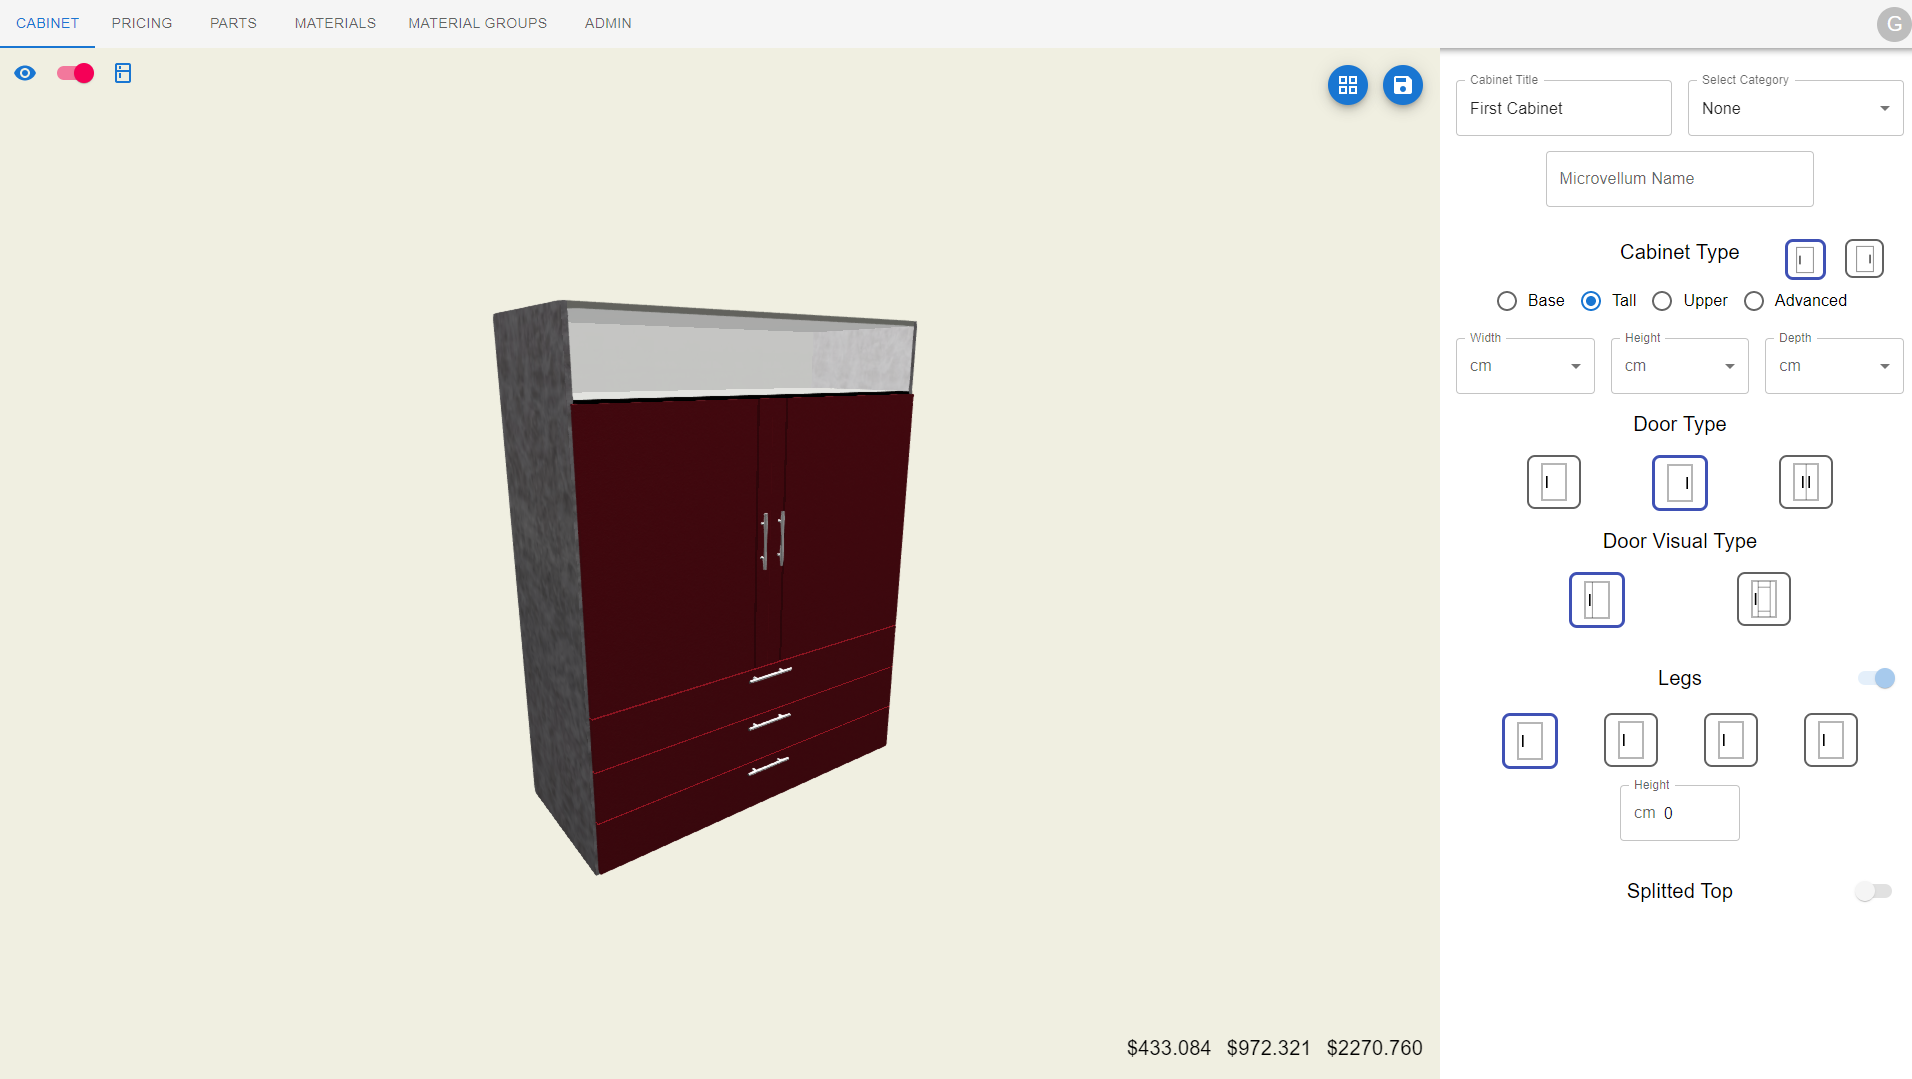
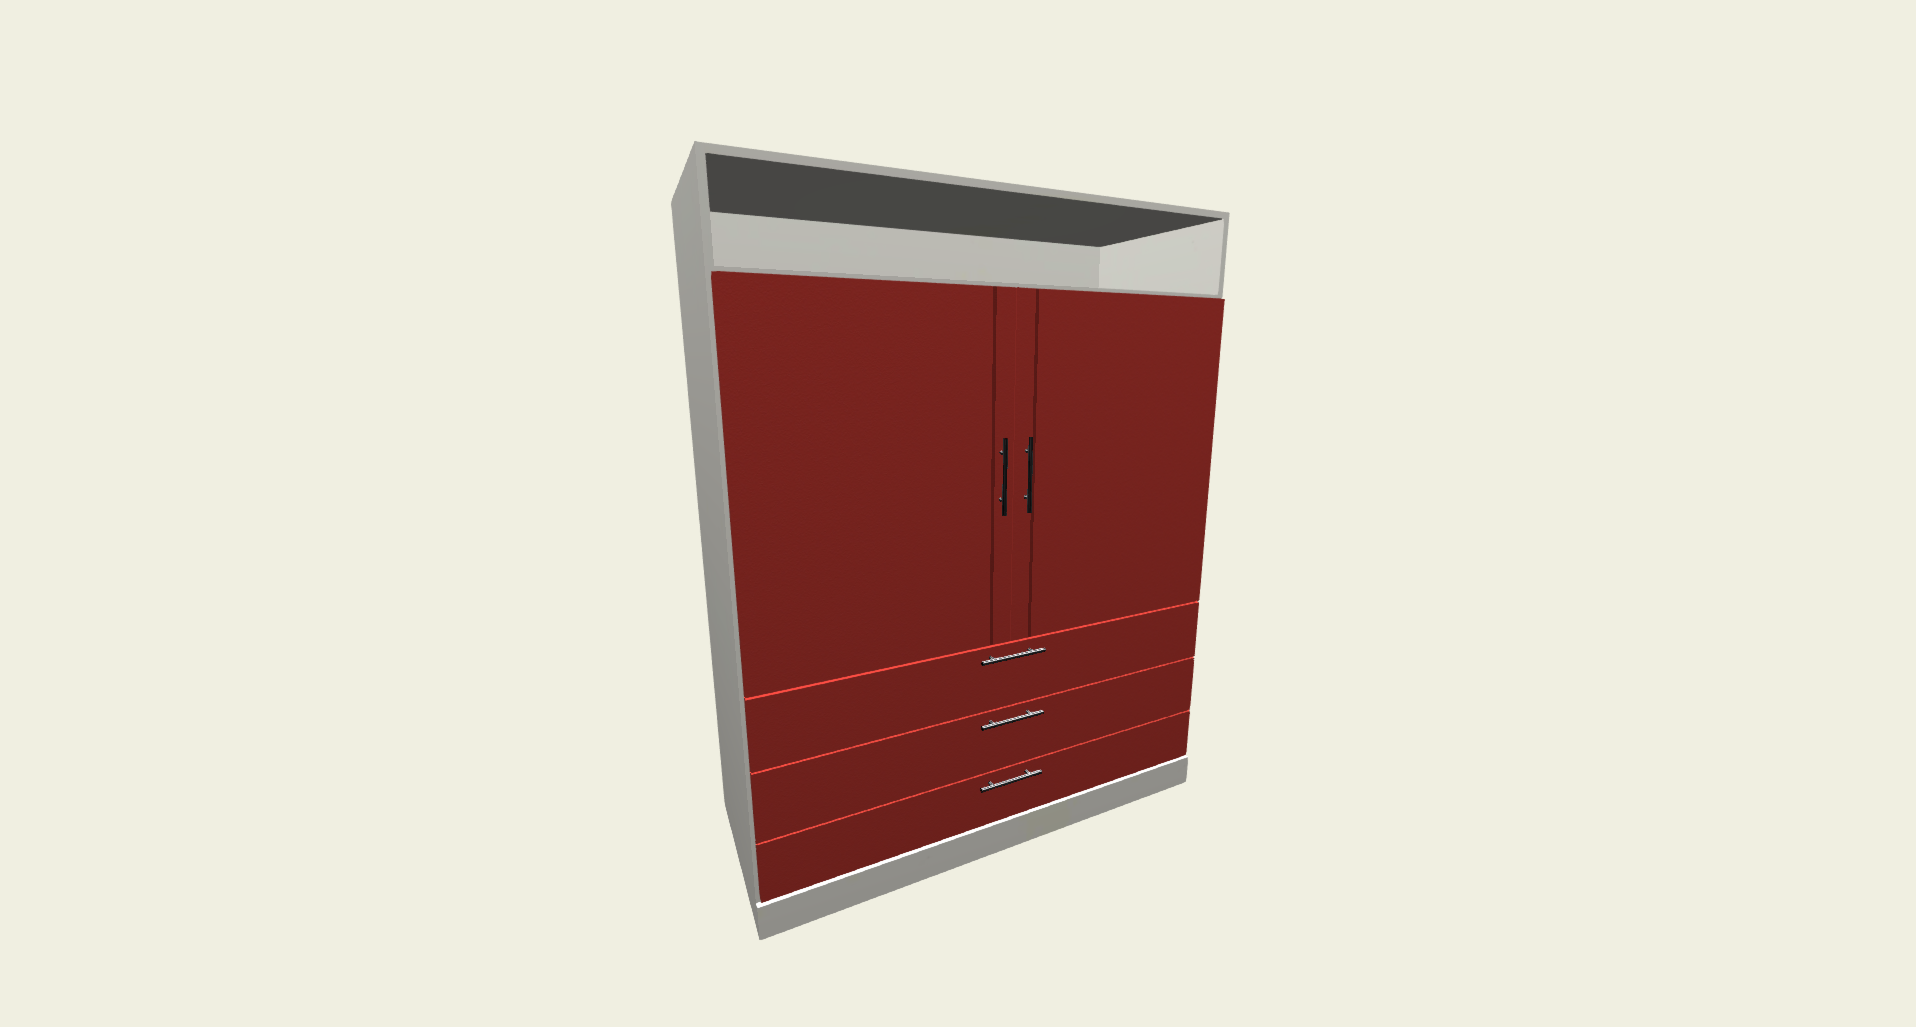
Update CC project info and pics

diff --git a/src/components/Projects/Projects.tsx b/src/components/Projects/Projects.tsx
@@ -43,7 +43,7 @@ const Projects: FC<IProps> = props => {
                     props.setTabId(1)
                     props.setSelectedActivityId(4)
                 }}>Greenberg Casework Company</Link>. I've built it from scratch by myself.<br />
-                &emsp;Cabinet Configurator is web 3D tool to design custom cabinets. The tool is mostly for our company's designers. They design new cabinets and after it the new designs go to our  <Link onClick={() => window.open('https://www.garagecabinets.com', '_blank')}>online shop</Link> for sales.<br />
+                &emsp;Cabinet Configurator is web 3D tool to design custom cabinets. The tool is mostly for our company's designers. They design new cabinets and after it the new designs go to our  <Link onClick={() => window.open('https://www.garagecabinets.com', '_blank')}>online shop</Link> for sales (see last picture).<br />
                 &emsp;Unauthorized users can only play with configurator by building cabinets, but nothing more. Authorized users can save their cabinets, share them with another users. Depends user role, some users can see price generation per piece, see cabinet parts list, change cabinet part configurations (prices, price generation type, etc), see/change cabinet material list, see/change app configs (some properties for cabinet which users can't change in process of designing), see/change app users, etc.<br />
                 &emsp;Here is credentials for demo account, you can login with it to unlock part of functionality of application, the prices for that account are fake. <br /><br /><i> &emsp;Login: demo@demo.com <br /> &emsp;Password: demo1234</i>
             </Typography >

diff --git a/src/assets/projects/projectImages.ts b/src/assets/projects/projectImages.ts
@@ -3,6 +3,17 @@ import CCPic1 from "./cc/pic1.png"
 import CCPic2 from "./cc/pic2.png"
 import CCPic3 from "./cc/pic3.png"
 import CCPic4 from "./cc/pic4.png"
+import CCPic5 from "./cc/pic5.png"
+import CCPic6 from "./cc/pic6.png"
+import CCPic7 from "./cc/pic7.png"
+import CCPic8 from "./cc/pic8.png"
+import CCPic9 from "./cc/pic9.png"
+import CCPic10 from "./cc/pic10.png"
+import CCPic11 from "./cc/pic11.png"
+import CCPic12 from "./cc/pic12.png"
+import CCPic13 from "./cc/pic13.png"
+import CCPic14 from "./cc/pic14.png"
+import CCPic15 from "./cc/pic15.png"
 
 import ShadowPreview from "./shadow/preview.png"
 import ShadowPic1 from "./shadow/Pic1.png"
@@ -98,7 +109,7 @@ import SocketGamePic4 from "./socketGame/pic4.png"
 
 export const CCImages = {
     preview: CCPreview,
-    images: [CCPic1, CCPic2, CCPic3, CCPic4]
+    images: [CCPreview, CCPic1, CCPic2, CCPic3, CCPic4, CCPic5, CCPic6, CCPic7, CCPic8, CCPic9, CCPic10, CCPic11, CCPic12, CCPic13, CCPic14, CCPic15]
 }
 
 export const ShadowImages = {
